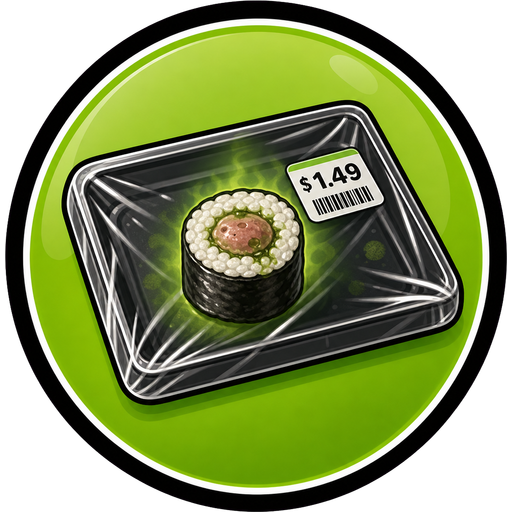
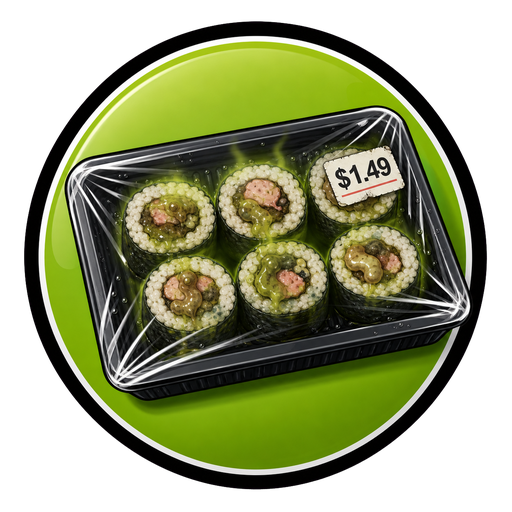
Survival: Water/Dramamine/Sushi art + polish overlays + tuning pass
- Art: water.png + dramamine.png added, sushi.png updated (cache-bust ->3)
- Polish: bespoke survival overlays (_drawSurvivalFx) — dehydration tunnel-
  vision edge-vignette, sickly-green nausea wash, caffeine-withdrawal red
  headache pulse, bladder 'gotta go' nag; dropped the placeholder darken bridge
- Tuning (sim-verified): drift +0.7/-0.9/-1.0 per mi, start 62/68; untended
  -> asleep ~mi110, active management survives to Pullman

diff --git a/src/scenes/GameScene.js b/src/scenes/GameScene.js
@@ -3566,8 +3566,7 @@ export class GameScene extends Phaser.Scene {
       _L[VICES.HOTDOG]  = _oddGummy ? 1 : (_t >= 70 ? 0.6 + _hyp * 0.4 : 0);
       // Hangry tremor (reuse ENERGY/cocaine jitter) when Fullness < 25.
       _L[VICES.ENERGY]  = _ful < 25 ? Math.min(1, (25 - _ful) / 25) : 0;
-      // Dehydration darkening (reuse COMBO/heroin nod vignette lightly) < 25.
-      _L[VICES.COMBO]   = _hyd < 25 ? Math.min(0.6, (25 - _hyd) / 25 * 0.6) : 0;
+      // (Dehydration/nausea/bladder/withdrawal use bespoke overlays — _drawSurvivalFx.)
 
       // Terminal: asleep at the wheel → run ends.
       if (this.survival.isAsleep() && !this._asleepHandled) {
@@ -15820,6 +15819,55 @@ export class GameScene extends Phaser.Scene {
       lbl.setText(r.key).setPosition(bx + bw + 5, y - 1).setVisible(true);
       if (r.danger) lbl.setColor('#FF6A5C'); else lbl.setColor('#9FB7D6');
     });
+    this._drawSurvivalFx();
+  }
+
+  /** Bespoke survival-state overlays: dehydration tunnel-vision, nausea green
+   *  wash, caffeine-withdrawal headache, and the bladder "gotta go" nag. */
+  _drawSurvivalFx() {
+    const s = this.survival;
+    if (!s) return;
+    if (!this._survFxGfx) {
+      this._survFxGfx = this.add.graphics().setScrollFactor(0).setDepth(44);
+      this._hudObjects?.push(this._survFxGfx);
+      this._bladderTxt = this.add.text(SCREEN_W / 2 + (HUD_OFFSET_X ?? 0), 66, '', {
+        fontSize: '15px', fontFamily: IMPACT, color: '#FFEE66', stroke: '#000', strokeThickness: 4,
+      }).setOrigin(0.5).setScrollFactor(0).setDepth(45);
+      this._hudObjects?.push(this._bladderTxt);
+    }
+    const g = this._survFxGfx; g.clear();
+    if (this._awaitingStart) { this._bladderTxt.setVisible(false); return; }
+    const W = SCREEN_W + (HUD_OFFSET_X ?? 0) * 2, H = SCREEN_H;
+    const ox = -(HUD_OFFSET_X ?? 0);
+    const t = this.gameTime ?? 0;
+
+    // Dehydration → tunnel vision: dark edge bands close in as Hydration < 25.
+    const dehy = s.hydration < 25 ? (25 - s.hydration) / 25 : 0;
+    if (dehy > 0) {
+      const band = 24 + dehy * 140, a = 0.2 + dehy * 0.55;
+      g.fillStyle(0x000000, a);
+      g.fillRect(ox, 0, W, band); g.fillRect(ox, H - band, W, band);
+      g.fillRect(ox, 0, band, H); g.fillRect(ox + W - band, 0, band, H);
+    }
+    // Nausea → sickly green wash, slow pulse.
+    if (s.isNauseous()) {
+      const n = Math.min(1, (s.nausea - 30) / 70);
+      const a = Math.max(0, (0.09 + 0.05 * Math.sin(t * 2)) * n);
+      g.fillStyle(0x3FA34D, a); g.fillRect(ox, 0, W, H);
+    }
+    // Caffeine withdrawal → red headache pulse at top/bottom.
+    if (s.inWithdrawal()) {
+      const a = 0.05 + 0.06 * Math.abs(Math.sin(t * 3));
+      g.fillStyle(0x8B0000, a); g.fillRect(ox, 0, W, 80); g.fillRect(ox, H - 80, W, 80);
+    }
+    // Bladder → "gotta go" nag.
+    if (s.hydration >= 75) {
+      const urgent = s.hydration >= 90;
+      this._bladderTxt.setText(urgent ? '🚻 GOTTA GO NOW!' : '🚻 gotta go…')
+        .setColor(urgent ? '#FF7A55' : '#FFEE66')
+        .setAlpha(0.65 + 0.35 * Math.abs(Math.sin(t * (urgent ? 6 : 2))))
+        .setVisible(true);
+    } else this._bladderTxt.setVisible(false);
   }
 
   /** New vice-icon HUD — mirrors the weapon-icon stack on the

diff --git a/src/systems/AssetManifest.js b/src/systems/AssetManifest.js
@@ -114,23 +114,23 @@ export const ASSET_MANIFEST = {
   // Art lives in public/assets/vices/; procedural placeholders fill in until
   // each PNG is dropped there.
   vices: [
-    { key: 'vice_sushi',    path: 'assets/vices/sushi.png?v=reskin-2' },
-    { key: 'vice_burrito',  path: 'assets/vices/burrito.png?v=reskin-2' },
-    { key: 'vice_energy',   path: 'assets/vices/energy_shot.png?v=reskin-2' },
-    { key: 'vice_gummies',  path: 'assets/vices/gummies.png?v=reskin-2' },
-    { key: 'vice_hotdog',   path: 'assets/vices/hotdog.png?v=reskin-2' },
-    { key: 'vice_combo',    path: 'assets/vices/combo_meal.png?v=reskin-2' },
-    { key: 'vice_coldbrew', path: 'assets/vices/cold_brew.png?v=reskin-2' },
-    { key: 'vice_coma',     path: 'assets/vices/food_coma.png?v=reskin-2' },
-    { key: 'vice_slushie',  path: 'assets/vices/slushie.png?v=reskin-2' },
-    { key: 'vice_caffeine', path: 'assets/vices/caffeine_pills.png?v=reskin-2' },
-    { key: 'vice_water',     path: 'assets/vices/water.png?v=reskin-2' },
-    { key: 'vice_dramamine', path: 'assets/vices/dramamine.png?v=reskin-2' },
+    { key: 'vice_sushi',    path: 'assets/vices/sushi.png?v=reskin-3' },
+    { key: 'vice_burrito',  path: 'assets/vices/burrito.png?v=reskin-3' },
+    { key: 'vice_energy',   path: 'assets/vices/energy_shot.png?v=reskin-3' },
+    { key: 'vice_gummies',  path: 'assets/vices/gummies.png?v=reskin-3' },
+    { key: 'vice_hotdog',   path: 'assets/vices/hotdog.png?v=reskin-3' },
+    { key: 'vice_combo',    path: 'assets/vices/combo_meal.png?v=reskin-3' },
+    { key: 'vice_coldbrew', path: 'assets/vices/cold_brew.png?v=reskin-3' },
+    { key: 'vice_coma',     path: 'assets/vices/food_coma.png?v=reskin-3' },
+    { key: 'vice_slushie',  path: 'assets/vices/slushie.png?v=reskin-3' },
+    { key: 'vice_caffeine', path: 'assets/vices/caffeine_pills.png?v=reskin-3' },
+    { key: 'vice_water',     path: 'assets/vices/water.png?v=reskin-3' },
+    { key: 'vice_dramamine', path: 'assets/vices/dramamine.png?v=reskin-3' },
   ],
   // Power-ups: Redneck Rage (invincible rampage) + Emergency Espresso (OD save).
   powerups: [
-    { key: 'powerup_rage',     path: 'assets/vices/redneck_rage.png?v=reskin-2' },
-    { key: 'powerup_espresso', path: 'assets/vices/emergency_espresso.png?v=reskin-2' },
+    { key: 'powerup_rage',     path: 'assets/vices/redneck_rage.png?v=reskin-3' },
+    { key: 'powerup_espresso', path: 'assets/vices/emergency_espresso.png?v=reskin-3' },
   ],
   // NPC portraits for the rest-stop encounter cards.  Missing files fall back
   // to the procedural colored-bust placeholder (BootScene._makeNpcPlaceholder),

diff --git a/src/systems/SurvivalSystem.js b/src/systems/SurvivalSystem.js
@@ -14,8 +14,9 @@
 
 const clamp = (v, lo = 0, hi = 100) => Math.max(lo, Math.min(hi, v));
 
-// Baseline per-mile drift.
-const DRIFT = { tiredness: +1.5, fullness: -2.0, hydration: -2.0 };
+// Baseline per-mile drift (tuned so an untended run survives ~90–110 mi and
+// you top up every ~35–40 mi — a real threat over 293 mi, not constant chores).
+const DRIFT = { tiredness: +0.7, fullness: -0.9, hydration: -1.0 };
 
 // Item → { t, h, f } bar deltas (per spec §3).  Specials handled in applyItem.
 const ITEM_FX = {
@@ -42,8 +43,8 @@ export class SurvivalSystem {
 
   reset() {
     this.tiredness = 0;
-    this.fullness  = 55;    // start comfortably fed
-    this.hydration = 60;    // start hydrated
+    this.fullness  = 62;    // start comfortably fed
+    this.hydration = 68;    // start hydrated
     this.nausea    = 0;
     this.caffeineDep    = 0;   // hidden dependence 0–100
     this.caffeineActive = 0;   // miles of caffeine still "in system"

diff --git a/SURVIVAL_SYSTEM_SPEC.md b/SURVIVAL_SYSTEM_SPEC.md
@@ -12,9 +12,9 @@ Bars are stored 0–100 (internally 0–1 is fine; this doc uses 0–100).
 
 | Bar | 0 means | 100 means | Baseline drift/mile | Sweet spot |
 |---|---|---|---|---|
-| **Tiredness** | fully alert | asleep → crash | **+1.5 / mi** (rises) | keep < 50 |
-| **Fullness** (Hunger) | starving | stuffed | **−2 / mi** (falls, get hungry) | 35–65 |
-| **Hydration** (Thirst) | dehydrated | bursting bladder | **−2 / mi** (falls, get thirsty) | 35–65 |
+| **Tiredness** | fully alert | asleep → crash | **+0.7 / mi** (rises) | keep < 50 |
+| **Fullness** (Hunger) | starving | stuffed | **−0.9 / mi** (falls) start 62 | 35–65 |
+| **Hydration** (Thirst) | dehydrated | bursting bladder | **−1.0 / mi** (falls) start 68 | 35–65 |
 
 **Interlock accelerators on Tiredness gain:**
 - Dehydrated (Hydration < 25): ×1.5